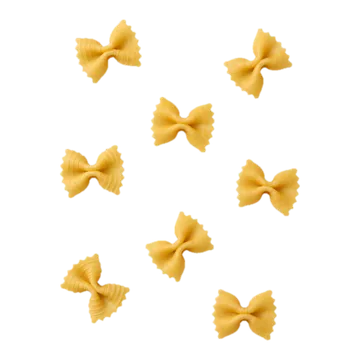
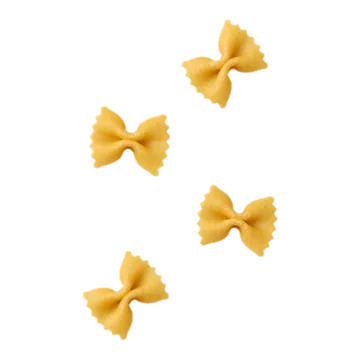
Større pasta i skålen
Claude-Session: https://claude.ai/code/session_01WZ3rcJ382stsMFGzGBwaQH

diff --git a/app.js b/app.js
@@ -108,7 +108,7 @@ function tegnIngrediens(gruppe, ingrediens, placering) {
     y += Math.round(Math.random() * 6 - 3);
     if (ingrediens.billede) {
       const img = document.createElementNS(SVG_NS, "image");
-      const s = placering.str * 1.3;
+      const s = placering.str * 1.3 * (ingrediens.skala || 1);
       img.setAttribute("href", ingrediens.billede);
       img.setAttribute("x", x - s / 2);
       img.setAttribute("y", y - s / 2);
